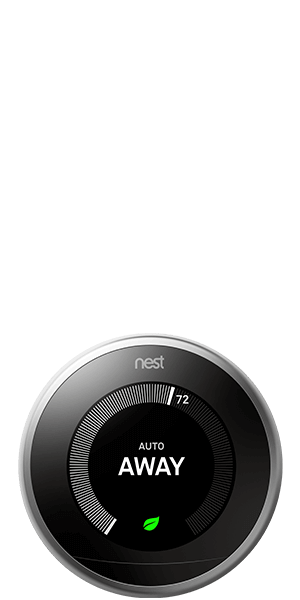
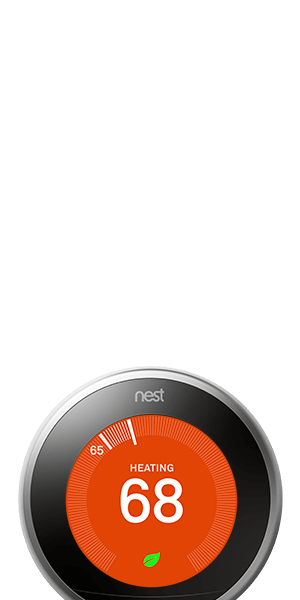
en-us product image update

Changed region(s): [[0.06, 0.54, 0.96, 1.0]]

diff --git a/SKI/EN-C/300x600 SKI/300x600.html b/SKI/EN-C/300x600 SKI/300x600.html
@@ -1,0 +1,50 @@
+<!doctype html>
+<html>
+<head>
+<meta charset="UTF-8">
+<title>300x600</title>
+<link rel="stylesheet" href="style.css">
+</head>
+
+<body>
+
+<div id="click_screen">
+<div id="container">
+
+<!-- Frame one --> 
+<div id="first_text"><img src="first_text.png"></div>
+<div id="product_text"><img src="product.png"></div>
+<div id="second_text"><img src="second_text.png"></div>
+<div id="third_text"><img src="third_text.png"></div>
+<div id="bgMask"><img src="bgMask.png"></div>
+<div id="bgMask2"><img src="bgMask2.png"></div>
+<div id="buy_now_over"><img src="buy_now_over.png"></div>
+<div id="buy_now"><img src="buy_now.png"></div>
+<div id="logo"><img src="logo.png"></div>
+
+<div id="white_BG"></div>
+<div id="bg"></div>
+<!-- Frame 2  -->
+
+
+
+<!-- Frame 3  -->
+
+
+
+
+
+</div>
+</div>
+
+<script type="text/javascript" src="https://cdnjs.cloudflare.com/ajax/libs/gsap/1.11.4/plugins/CSSPlugin.min.js"></script>
+<script type="text/javascript" src="https://cdnjs.cloudflare.com/ajax/libs/gsap/1.11.4/TweenLite.min.js"></script>
+<script type="text/javascript" src="https://cdnjs.cloudflare.com/ajax/libs/gsap/1.11.4/easing/EasePack.min.js"></script>
+
+
+<script type="text/javascript" src="Animation.js"></script> 
+<script src="https://s0.2mdn.net/ads/studio/Enabler.js"> </script>
+
+
+</body>
+</html>

diff --git a/SKI/EN-C/300x600 SKI/Animation.js b/SKI/EN-C/300x600 SKI/Animation.js
@@ -57,7 +57,7 @@ home_animation = (function() {
 		TweenLite.to(first_text, 1, {top:-300, delay: 2});
 		TweenLite.to(bgMask, 1, {opacity:0, top:-179, delay: 2});
 		// TweenLite.to(first_text, 1, {opacity:0, delay: 2.3});
-		TweenLite.to(product_text, 1.2, {top:-170, scaleX:1, scaleY:1, delay:2});		
+		TweenLite.to(product_text, 1.2, {top:-154, scaleX:1, scaleY:1, delay:2});		
 		TweenLite.to(bg, 1.2, {top:-179, scaleX:1, scaleY:1, delay:2});		
 		// slide up white bg
 		TweenLite.to(bgMask2, 1.1, {top:0, opacity:1, delay:2});

diff --git a/SKI/EN-C/300x600 SKI/style.css b/SKI/EN-C/300x600 SKI/style.css
@@ -57,7 +57,7 @@ z-index:1;
 #product_text {
 position: absolute;
 left:-3px;
-top:-30px;
+top:-15px;
 z-index:-1;
 }
 
